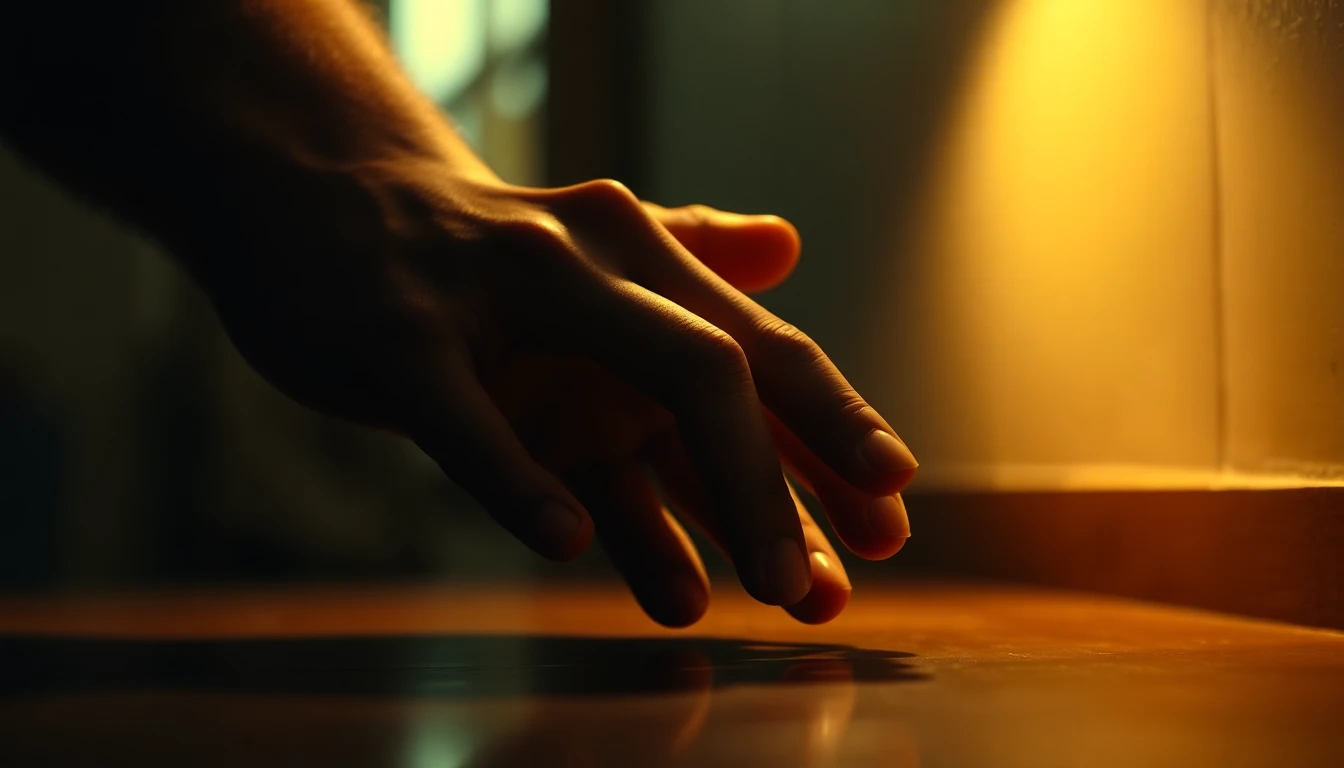
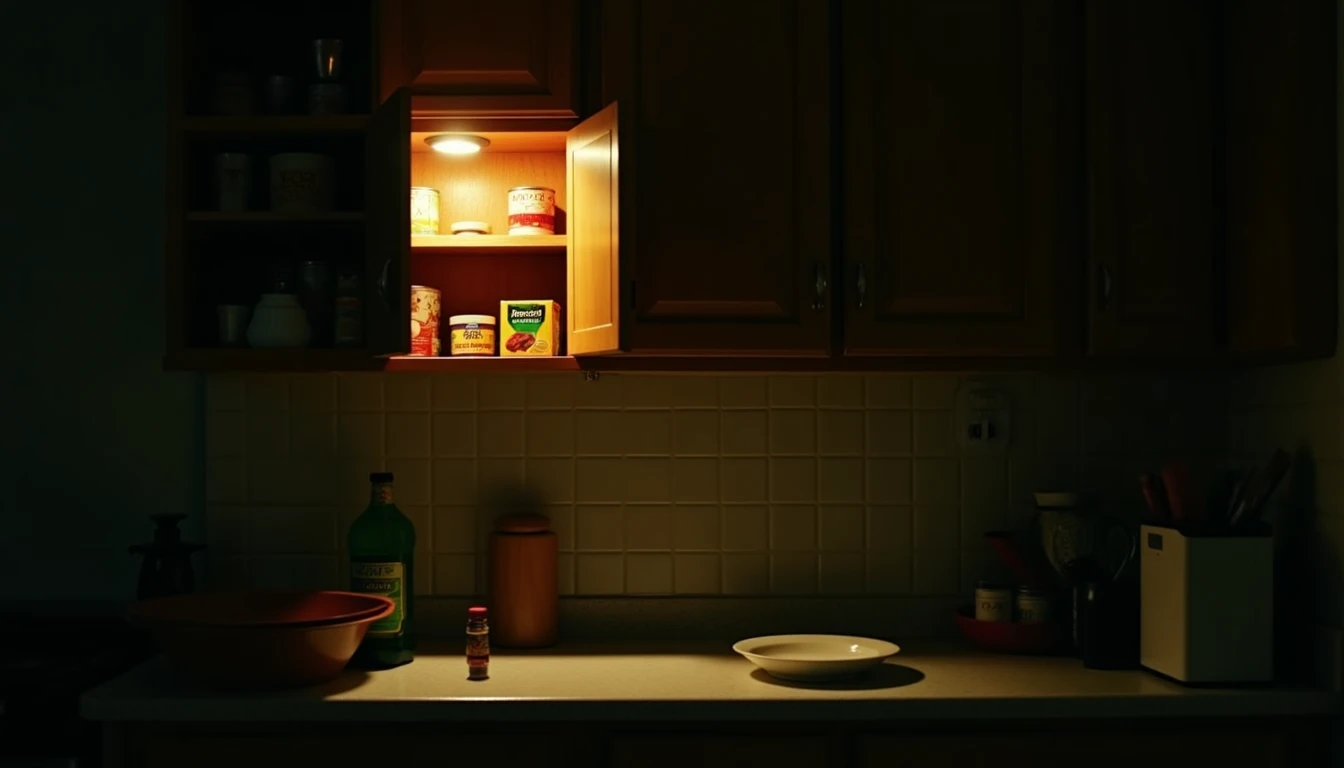
cover image updated

diff --git a/src/data/articles/craving-food-not-hunger.ts b/src/data/articles/craving-food-not-hunger.ts
@@ -129,5 +129,5 @@ You are not weak for not being able to think your way out of it. You are dealing
 
 *The Craving Toolkit includes a Craving Log worksheet that helps you map cues, name the real reward, and break the cue-to-eating loop one observation at a time.*`
 ,
-  coverImage: { src: "/articles/craving-food-not-hunger.webp", alt: "I'd be happy to write alt text for your hero image! However, I need to know what the image actually shows first.\n\nCould you…" },
+  coverImage: { src: "/articles/craving-food-not-hunger.webp", alt: "Dimly lit kitchen with warm amber light, open cupboard, wooden shelves, packaged foods, empty plate." },
 };
